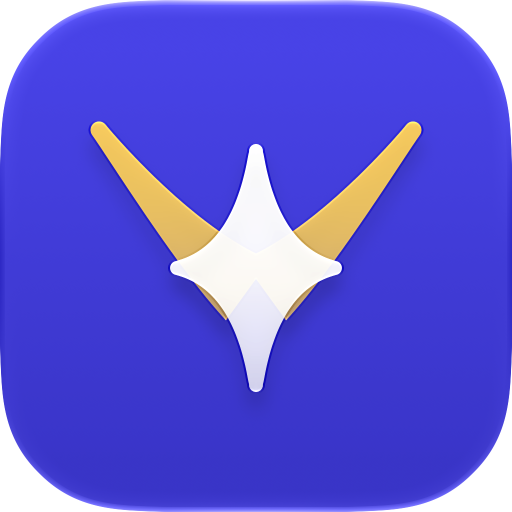
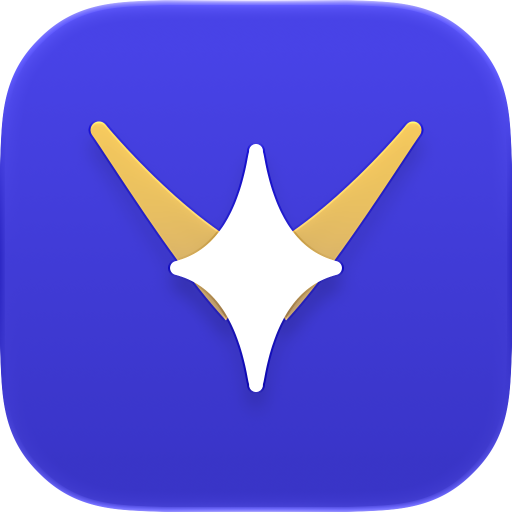
fix: keep the fin from showing through the star
Turn off the star group's translucency so the gold fin no longer shows through the white star, and regenerate the Icon Composer document, avatar and profile mark.

Changed region(s): [[0.4375, 0.5938, 0.5625, 0.7812]]

diff --git a/DESIGN.md b/DESIGN.md
@@ -28,8 +28,9 @@ then regenerate.
 
 ## Iconography
 
-The fin is translucent glass behind the opaque star, so the two overlap with
-depth and the star keeps its shape in the dark, clear and tinted appearances.
+The fin is translucent glass behind the star. The star's translucency is off,
+so the gold fin never shows through it; the two still overlap with depth, and
+the star keeps its shape in the dark, clear and tinted appearances.
 
 ```json
 {
@@ -47,7 +48,8 @@ depth and the star keeps its shape in the dark, clear and tinted appearances.
         {
           "name": "Star",
           "layers": [{"source": "Brand/Icon/star.svg", "name": "Star"}],
-          "shadow": {"kind": "neutral", "opacity": 0.5}
+          "shadow": {"kind": "neutral", "opacity": 0.5},
+          "translucency": {"enabled": false, "value": 0}
         }
       ],
       "styles": {
